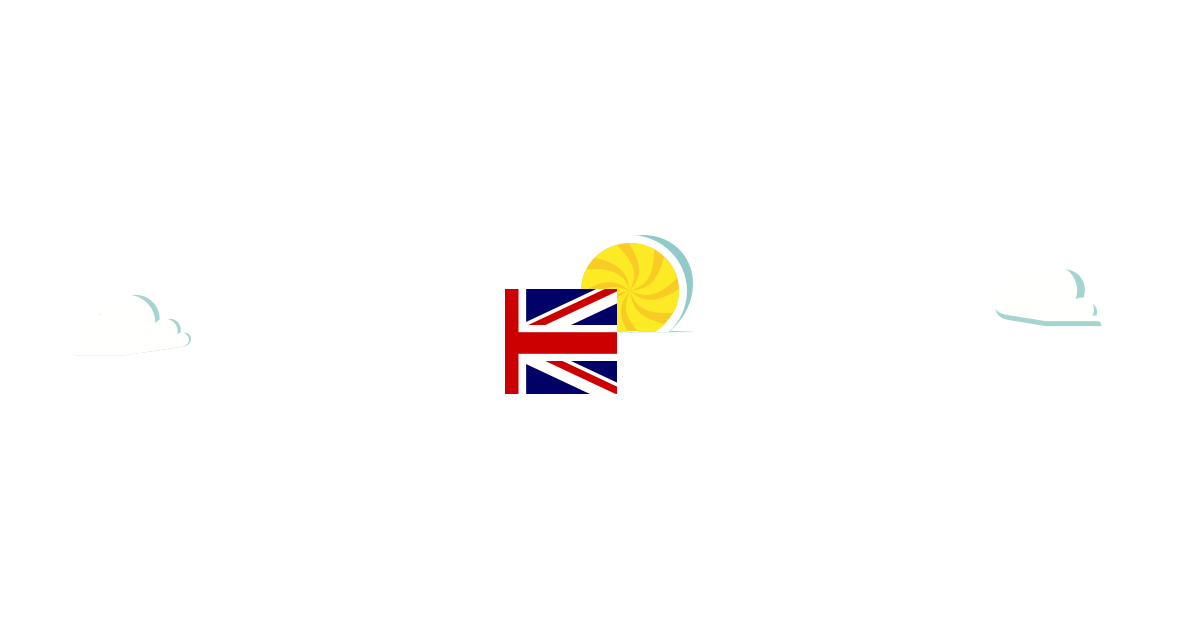
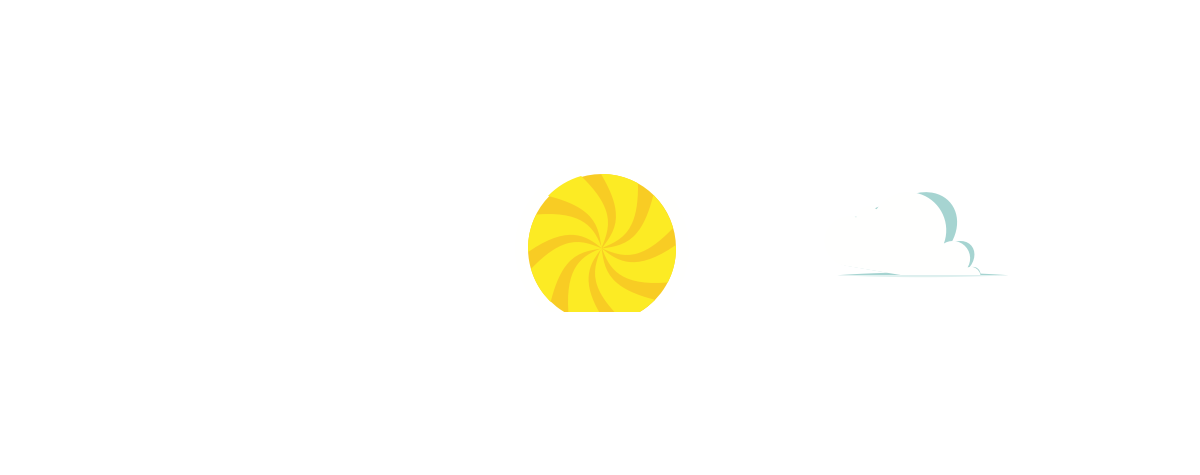
Refactors Flash cartridge and core components
Simplifies the Flash cartridge by removing unused maxWidth prop from MovieClip component.

Corrects positioning logic in setPosition function by removing window.innerWidth adjustment.

Updates global navigation and markdown content.

Adds default featured image and sketch file.

diff --git a/gl-core/components/layout/RenderMarkdown.tsx b/gl-core/components/layout/RenderMarkdown.tsx
@@ -58,19 +58,13 @@ export default function RenderMarkdown({
         <ReactMarkdown
           components={{
             h1: ({ children }) => (
-              <Typography variant="h4">
-                {children}
-              </Typography>
+              <Typography variant="h4">{children}</Typography>
             ),
             h2: ({ children }) => (
-              <Typography variant="h5">
-                {children}
-              </Typography>
+              <Typography variant="h5">{children}</Typography>
             ),
             h3: ({ children }) => (
-              <Typography variant="h6">
-                {children}
-              </Typography>
+              <Typography variant="h6">{children}</Typography>
             ),
             p: ({ children }) => (
               <Typography variant="body1" paragraph>

diff --git a/gl-core/cartridges/Flash/components/MovieClip.tsx b/gl-core/cartridges/Flash/components/MovieClip.tsx
@@ -13,7 +13,6 @@ export type TMovieClip = {
   left?: number | string;
   right?: number | string;
   bottom?: number | string;
-  maxWidth?: number | string | null;
 };
 
 export default function MovieClip({
@@ -26,7 +25,6 @@ export default function MovieClip({
   left = 0,
   right = 0,
   bottom = 0,
-  maxWidth = null,
 }: TMovieClip) {
   const ref = React.useRef<HTMLDivElement>(null);
   const [size, setSize] = React.useState<{ width: number; height: number }>({
@@ -59,7 +57,6 @@ export default function MovieClip({
         bottom,
         width: width ?? 'auto',
         height: height ?? 'auto',
-        maxWidth: maxWidth ?? 'none',
         marginLeft: 'auto',
         marginRight: 'auto',
         // border: '1px solid limegreen',

diff --git a/gl-core/cartridges/Flash/MovieClips/TestClip.tsx b/gl-core/cartridges/Flash/MovieClips/TestClip.tsx
@@ -2,23 +2,21 @@
 
 import * as React from 'react';
 import { Box, Avatar, IconButton } from '@mui/material';
-import {
-  Icon,
-} from '../../../../gl-core'
+import { Icon } from '../../../../gl-core';
 export type TTestClip = {
   slug: string | null;
 };
 
 export default function TestClip({ slug = null }: TTestClip) {
-  
   const onTestClick = () => {
-    return null
-  }
-  
+    return null;
+  };
+
   return (
-    <Box sx={{
-      m:2,
-    }}>
+    <Box
+      sx={{
+      }}
+    >
       <IconButton>
         <Icon icon="flash" />
       </IconButton>

diff --git a/gl-core/Core.tsx b/gl-core/Core.tsx
@@ -48,7 +48,7 @@ export default function Core({ frontmatter, body = null }: TCore) {
           </MovieClip>
         ) : null}
 
-        <MovieClip id="content" opacity={0} maxWidth={650}>
+        <MovieClip id="content" opacity={0}>
           <Header frontmatter={frontmatter} />
           <Photo src={frontmatter?.image ?? null} />
           <PageBreadcrumb />

diff --git a/gl-core/cartridges/Flash/ActionScript/set/setPosition.ts b/gl-core/cartridges/Flash/ActionScript/set/setPosition.ts
@@ -28,7 +28,7 @@ export const setPosition = (divId: string, options: TSetPosition = {}) => {
 
     el.style.position = 'absolute';
     el.style.top = `${coords.top}px`;
-    el.style.left = `${coords.left - window.innerWidth / 2}px`;
+    el.style.left = `${coords.left}px`;
   });
 };
 

diff --git a/public/markdown/index.md b/public/markdown/index.md
@@ -7,6 +7,7 @@ icon: goldlabel
 image: '/png/defaultFeatured.png'
 tags: JavaScript, Next Gen, Next.js, core, Gen X, goldlabel, pr0, bouncer, AI Prompt Engineering, ChatGPT, OpenAI, Singularity, Frontend, Vanilla JS, TypeScript, React, Angular, Vue, Material UI, MUI, Flash, Server Side JavaScript, Node, Gatsby, NextJS, Headless CMS
 ---
+
 ## Free
 
 - [Uberedux](/free/uberedux)

diff --git a/public/markdown/free/flash.md b/public/markdown/free/flash.md
@@ -12,8 +12,6 @@ keywords: 'Catridges, Flash, SVG'
 
 Maybe we did ridiculously and pointlessly reinvented MacroMedia Flash with React JS so you'll never have to. You're welcome
 
-#### Features
-
 - SVG Graphics
 - Animation using Greensock
 - State management with redux/toolkit
